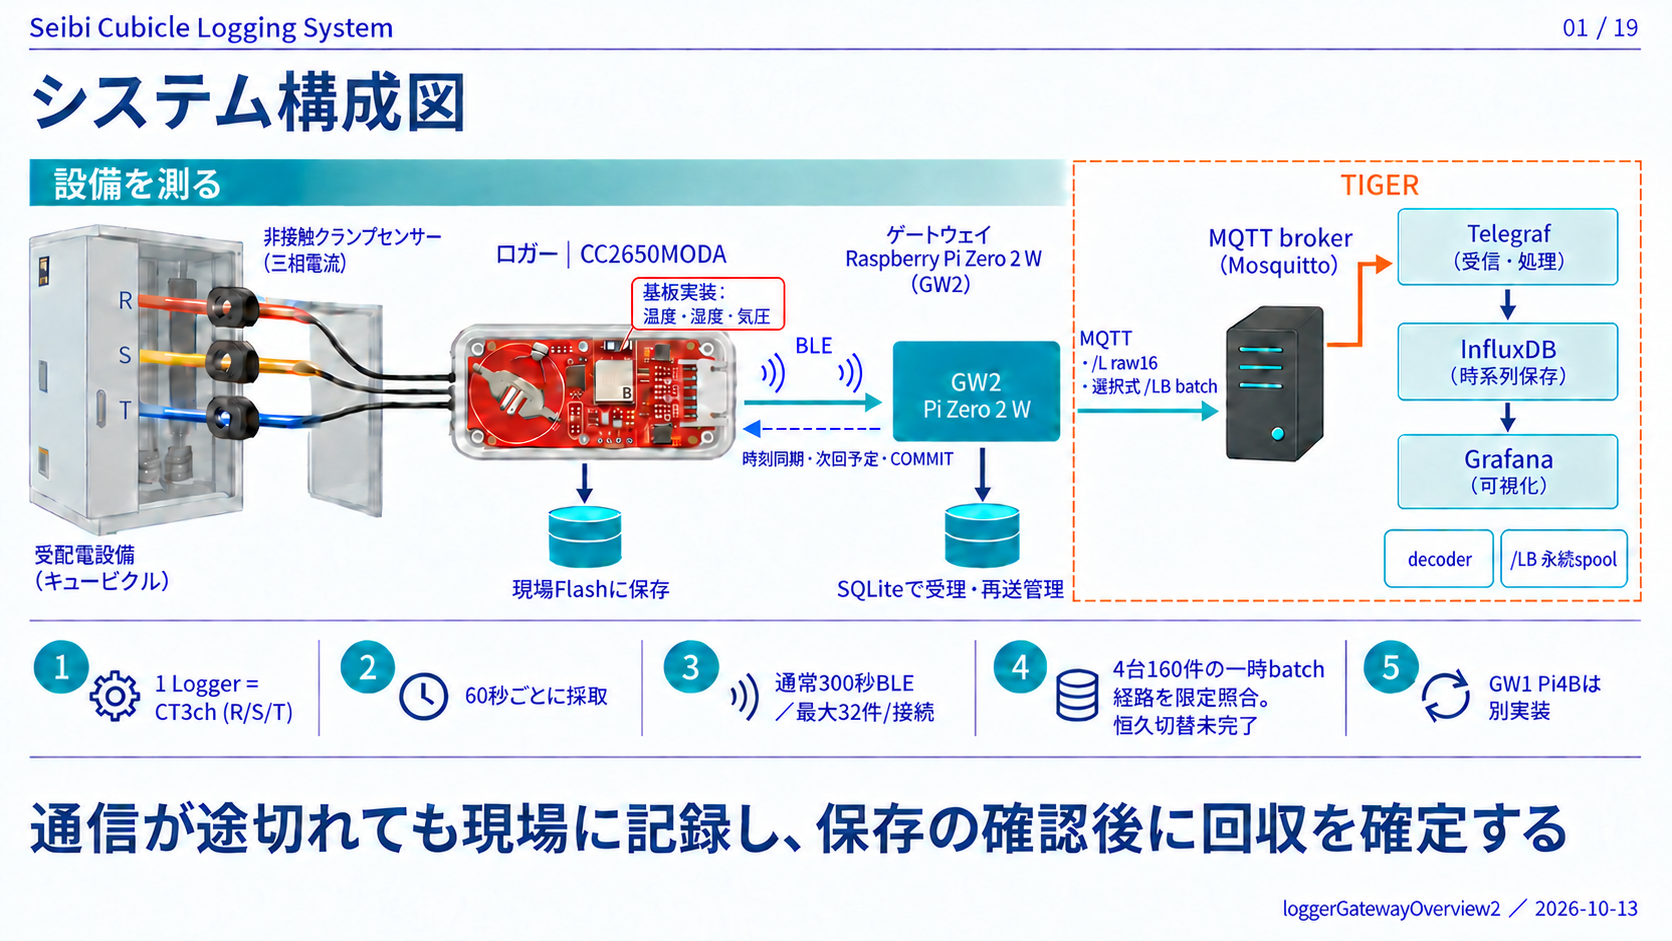
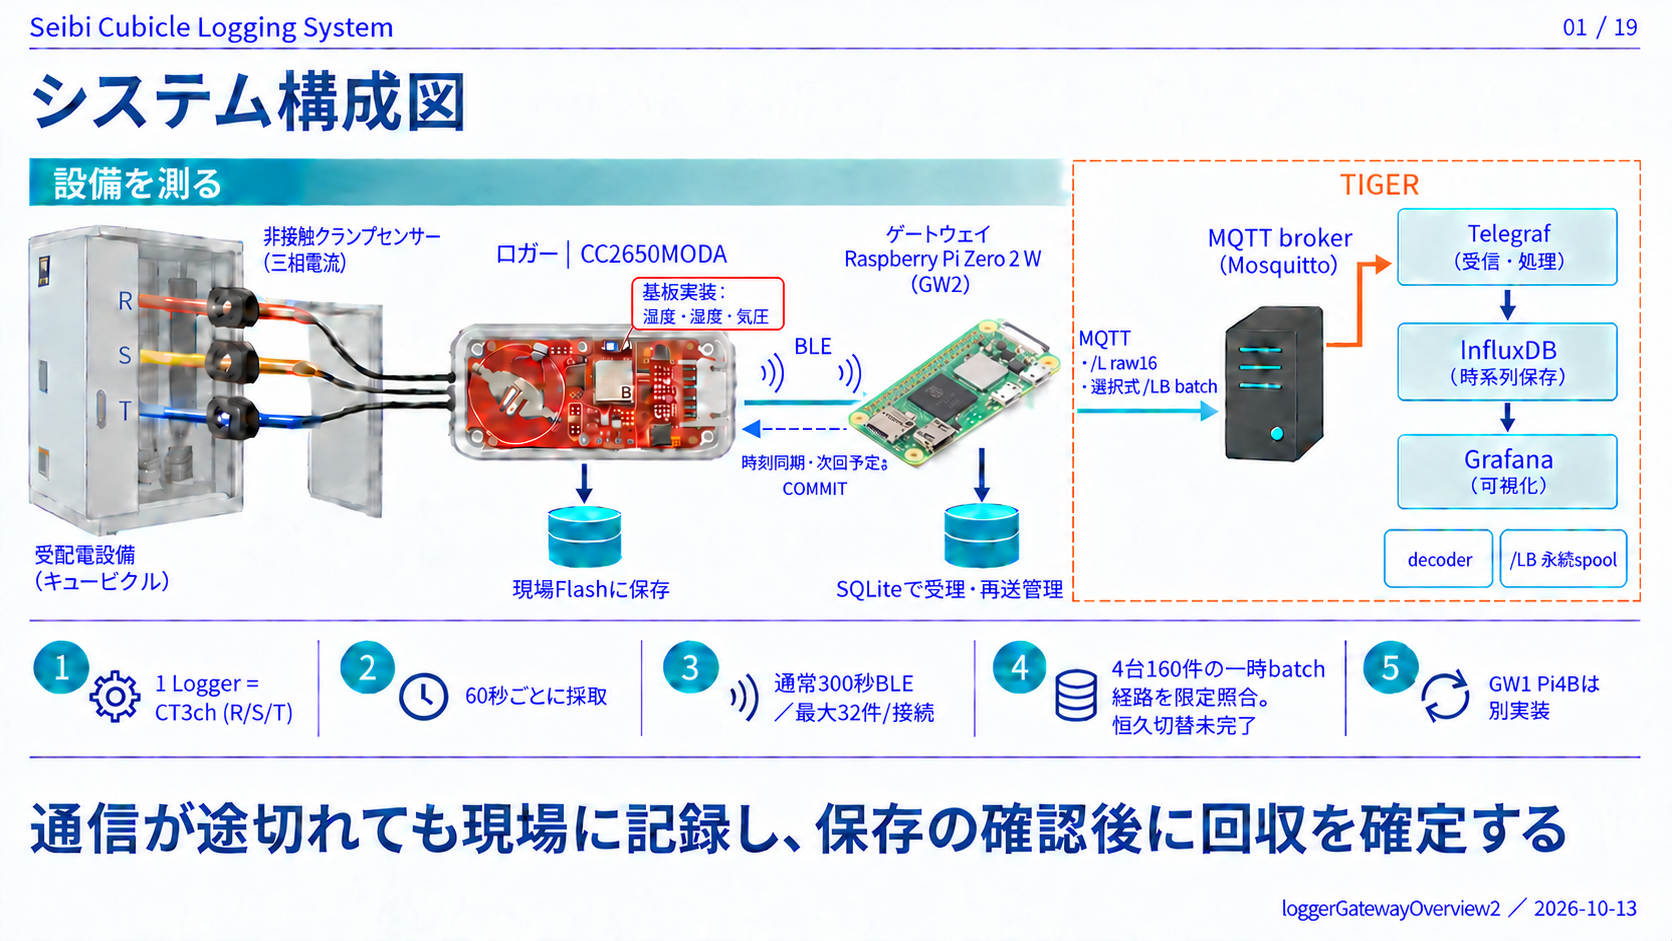
index.htmlのタイトルを更新し、スライド画像のURLにバージョン情報を追加しました。 画像ファイルも更新しました。

diff --git a/index.html b/index.html
@@ -1,23 +1,23 @@
 <!doctype html>
-<html lang="ja"><head><meta charset="utf-8"><meta name="viewport" content="width=device-width,initial-scale=1"><title>Seibi Cubicle Logging System</title><style>body{margin:0;background:#e8edf0;color:#143145;font:16px 'Yu Gothic',Meiryo,sans-serif}header{padding:18px 4vw;background:#fff;position:sticky;top:0;z-index:2}h1{font-size:23px;margin:0 0 8px}a{color:#00778a}nav{display:flex;gap:18px;flex-wrap:wrap}main{max-width:1400px;margin:auto;padding:20px}figure{margin:0 0 24px;background:#fff;box-shadow:0 2px 9px #0002}img{display:block;width:100%;height:auto}figcaption{padding:10px 16px}button{padding:8px 14px;border:1px solid #00778a;background:white;border-radius:4px;cursor:pointer}body.present header,body.present figcaption{display:none}body.present main{padding:0;max-width:none;height:100vh;background:#111;display:grid;place-items:center}body.present figure{display:none;margin:0;box-shadow:none;background:#111}body.present figure.active{display:block;width:100vw;height:100vh}body.present img{width:100%;height:100%;object-fit:contain}@media print{@page{size:landscape;margin:0}header,figcaption{display:none}main{margin:0;padding:0;max-width:none}figure{page-break-after:always;margin:0;box-shadow:none}img{width:100%;height:100vh;object-fit:contain}}</style></head><body><header><h1>Seibi Cubicle Logging System</h1><nav><button id="show">スライド表示（← →／Esc）</button><a href="presentation_content_plan.md">記述内容</a><a href="review_report.md">レビュー報告</a><a href="one_nce_budget.md">1NCE試算</a></nav></header><main>
-<figure id="slide-1"><a href="slide_images/01_system_architecture.png"><img src="slide_images/01_system_architecture.png" alt="1. システム構成図" loading="eager"></a><figcaption>01 / 19　システム構成図</figcaption></figure>
-<figure id="slide-2"><a href="slide_images/02_specifications.png"><img src="slide_images/02_specifications.png" alt="2. ロガー／ゲートウェイ諸元" loading="lazy"></a><figcaption>02 / 19　ロガー／ゲートウェイ諸元</figcaption></figure>
-<figure id="slide-3"><a href="slide_images/03_cycle_and_payload.png"><img src="slide_images/03_cycle_and_payload.png" alt="3. 計測周期と16Bレコード構造" loading="lazy"></a><figcaption>03 / 19　計測周期と16Bレコード構造</figcaption></figure>
-<figure id="slide-4"><a href="slide_images/04_commit_protocol.png"><img src="slide_images/04_commit_protocol.png" alt="4. 保存確認を伴うBLE回収" loading="lazy"></a><figcaption>04 / 19　保存確認を伴うBLE回収</figcaption></figure>
-<figure id="slide-5"><a href="slide_images/05_design_origins.png"><img src="slide_images/05_design_origins.png" alt="5. 停止条件に基づく保存設計" loading="lazy"></a><figcaption>05 / 19　停止条件に基づく保存設計</figcaption></figure>
-<figure id="slide-6"><a href="slide_images/06_flash_page_management.png"><img src="slide_images/06_flash_page_management.png" alt="6. 256Bページで記録と管理を集約" loading="lazy"></a><figcaption>06 / 19　256Bページで記録と管理を集約</figcaption></figure>
-<figure id="slide-7"><a href="slide_images/07_undo_journal.png"><img src="slide_images/07_undo_journal.png" alt="7. 循環undo journalの更新手順" loading="lazy"></a><figcaption>07 / 19　循環undo journalの更新手順</figcaption></figure>
-<figure id="slide-8"><a href="slide_images/08_recovery_decision.png"><img src="slide_images/08_recovery_decision.png" alt="8. 起動時の復旧判定" loading="lazy"></a><figcaption>08 / 19　起動時の復旧判定</figcaption></figure>
-<figure id="slide-9"><a href="slide_images/09_wear_and_maintenance.png"><img src="slide_images/09_wear_and_maintenance.png" alt="9. Flash更新予算と保守条件" loading="lazy"></a><figcaption>09 / 19　Flash更新予算と保守条件</figcaption></figure>
-<figure id="slide-10"><a href="slide_images/10_freshness_self_repair.png"><img src="slide_images/10_freshness_self_repair.png" alt="10. 最新優先回収と未送信の自己照合" loading="lazy"></a><figcaption>10 / 19　最新優先回収と未送信の自己照合</figcaption></figure>
-<figure id="slide-11"><a href="slide_images/11_quality_and_delivery.png"><img src="slide_images/11_quality_and_delivery.png" alt="11. 品質検証・永続キュー・再送処理" loading="lazy"></a><figcaption>11 / 19　品質検証・永続キュー・再送処理</figcaption></figure>
-<figure id="slide-12"><a href="slide_images/12_multi_logger_schedule.png"><img src="slide_images/12_multi_logger_schedule.png" alt="12. 複数ロガーの通信時刻を管理" loading="lazy"></a><figcaption>12 / 19　複数ロガーの通信時刻を管理</figcaption></figure>
-<figure id="slide-13"><a href="slide_images/13_host_tests.png"><img src="slide_images/13_host_tests.png" alt="13. 停止位置と入力条件を変えたPC検証" loading="lazy"></a><figcaption>13 / 19　停止位置と入力条件を変えたPC検証</figcaption></figure>
-<figure id="slide-14"><a href="slide_images/14_hardware_validation.png"><img src="slide_images/14_hardware_validation.png" alt="14. 4 Logger・160 recordのE2E照合" loading="lazy"></a><figcaption>14 / 19　4 Logger・160 recordのE2E照合</figcaption></figure>
-<figure id="slide-15"><a href="slide_images/15_performance_resources.png"><img src="slide_images/15_performance_resources.png" alt="15. 小型MCUの実行時間とメモリ余裕" loading="lazy"></a><figcaption>15 / 19　小型MCUの実行時間とメモリ余裕</figcaption></figure>
-<figure id="slide-16"><a href="slide_images/16_engineering_value.png"><img src="slide_images/16_engineering_value.png" alt="16. 設計上の利点と適用限界" loading="lazy"></a><figcaption>16 / 19　設計上の利点と適用限界</figcaption></figure>
-<figure id="slide-17"><a href="slide_images/17_mqtt_batch.png"><img src="slide_images/17_mqtt_batch.png" alt="17. 16Bを保ったMQTTまとめ送信" loading="lazy"></a><figcaption>17 / 19　16Bを保ったMQTTまとめ送信</figcaption></figure>
-<figure id="slide-18"><a href="slide_images/18_one_nce_budget.png"><img src="slide_images/18_one_nce_budget.png" alt="18. 1NCEの10年500MBと収容台数" loading="lazy"></a><figcaption>18 / 19　1NCEの10年500MBと収容台数</figcaption></figure>
-<figure id="slide-19"><a href="slide_images/19_one_nce_conditions.png"><img src="slide_images/19_one_nce_conditions.png" alt="19. 500MBへ収める通信条件" loading="lazy"></a><figcaption>19 / 19　500MBへ収める通信条件</figcaption></figure>
+<html lang="ja"><head><meta charset="utf-8"><meta name="viewport" content="width=device-width,initial-scale=1"><title>Inside Seibi Cubicle Logging System</title><style>body{margin:0;background:#e8edf0;color:#143145;font:16px 'Yu Gothic',Meiryo,sans-serif}header{padding:18px 4vw;background:#fff;position:sticky;top:0;z-index:2}h1{font-size:23px;margin:0 0 8px}a{color:#00778a}nav{display:flex;gap:18px;flex-wrap:wrap}main{max-width:1400px;margin:auto;padding:20px}figure{margin:0 0 24px;background:#fff;box-shadow:0 2px 9px #0002}img{display:block;width:100%;height:auto}figcaption{padding:10px 16px}button{padding:8px 14px;border:1px solid #00778a;background:white;border-radius:4px;cursor:pointer}body.present header,body.present figcaption{display:none}body.present main{padding:0;max-width:none;height:100vh;background:#111;display:grid;place-items:center}body.present figure{display:none;margin:0;box-shadow:none;background:#111}body.present figure.active{display:block;width:100vw;height:100vh}body.present img{width:100%;height:100%;object-fit:contain}@media print{@page{size:landscape;margin:0}header,figcaption{display:none}main{margin:0;padding:0;max-width:none}figure{page-break-after:always;margin:0;box-shadow:none}img{width:100%;height:100vh;object-fit:contain}}</style></head><body><header><h1>Inside Seibi Cubicle Logging System</h1><nav><button id="show">スライド表示（← →／Esc）</button><a href="presentation_content_plan.md">記述内容</a><a href="review_report.md">レビュー報告</a><a href="one_nce_budget.md">1NCE試算</a></nav></header><main>
+<figure id="slide-1"><a href="slide_images/01_system_architecture.png"><img src="slide_images/01_system_architecture.png?v=zero2w-20261013" alt="1. システム構成図" loading="eager"></a><figcaption>01 / 19　システム構成図</figcaption></figure>
+<figure id="slide-2"><a href="slide_images/02_specifications.png"><img src="slide_images/02_specifications.png?v=zero2w-20261013" alt="2. ロガー／ゲートウェイ諸元" loading="lazy"></a><figcaption>02 / 19　ロガー／ゲートウェイ諸元</figcaption></figure>
+<figure id="slide-3"><a href="slide_images/03_cycle_and_payload.png"><img src="slide_images/03_cycle_and_payload.png?v=zero2w-20261013" alt="3. 計測周期と16Bレコード構造" loading="lazy"></a><figcaption>03 / 19　計測周期と16Bレコード構造</figcaption></figure>
+<figure id="slide-4"><a href="slide_images/04_commit_protocol.png"><img src="slide_images/04_commit_protocol.png?v=zero2w-20261013" alt="4. 保存確認を伴うBLE回収" loading="lazy"></a><figcaption>04 / 19　保存確認を伴うBLE回収</figcaption></figure>
+<figure id="slide-5"><a href="slide_images/05_design_origins.png"><img src="slide_images/05_design_origins.png?v=zero2w-20261013" alt="5. 停止条件に基づく保存設計" loading="lazy"></a><figcaption>05 / 19　停止条件に基づく保存設計</figcaption></figure>
+<figure id="slide-6"><a href="slide_images/06_flash_page_management.png"><img src="slide_images/06_flash_page_management.png?v=zero2w-20261013" alt="6. 256Bページで記録と管理を集約" loading="lazy"></a><figcaption>06 / 19　256Bページで記録と管理を集約</figcaption></figure>
+<figure id="slide-7"><a href="slide_images/07_undo_journal.png"><img src="slide_images/07_undo_journal.png?v=zero2w-20261013" alt="7. 循環undo journalの更新手順" loading="lazy"></a><figcaption>07 / 19　循環undo journalの更新手順</figcaption></figure>
+<figure id="slide-8"><a href="slide_images/08_recovery_decision.png"><img src="slide_images/08_recovery_decision.png?v=zero2w-20261013" alt="8. 起動時の復旧判定" loading="lazy"></a><figcaption>08 / 19　起動時の復旧判定</figcaption></figure>
+<figure id="slide-9"><a href="slide_images/09_wear_and_maintenance.png"><img src="slide_images/09_wear_and_maintenance.png?v=zero2w-20261013" alt="9. Flash更新予算と保守条件" loading="lazy"></a><figcaption>09 / 19　Flash更新予算と保守条件</figcaption></figure>
+<figure id="slide-10"><a href="slide_images/10_freshness_self_repair.png"><img src="slide_images/10_freshness_self_repair.png?v=zero2w-20261013" alt="10. 最新優先回収と未送信の自己照合" loading="lazy"></a><figcaption>10 / 19　最新優先回収と未送信の自己照合</figcaption></figure>
+<figure id="slide-11"><a href="slide_images/11_quality_and_delivery.png"><img src="slide_images/11_quality_and_delivery.png?v=zero2w-20261013" alt="11. 品質検証・永続キュー・再送処理" loading="lazy"></a><figcaption>11 / 19　品質検証・永続キュー・再送処理</figcaption></figure>
+<figure id="slide-12"><a href="slide_images/12_multi_logger_schedule.png"><img src="slide_images/12_multi_logger_schedule.png?v=zero2w-20261013" alt="12. 複数ロガーの通信時刻を管理" loading="lazy"></a><figcaption>12 / 19　複数ロガーの通信時刻を管理</figcaption></figure>
+<figure id="slide-13"><a href="slide_images/13_host_tests.png"><img src="slide_images/13_host_tests.png?v=zero2w-20261013" alt="13. 停止位置と入力条件を変えたPC検証" loading="lazy"></a><figcaption>13 / 19　停止位置と入力条件を変えたPC検証</figcaption></figure>
+<figure id="slide-14"><a href="slide_images/14_hardware_validation.png"><img src="slide_images/14_hardware_validation.png?v=zero2w-20261013" alt="14. 4 Logger・160 recordのE2E照合" loading="lazy"></a><figcaption>14 / 19　4 Logger・160 recordのE2E照合</figcaption></figure>
+<figure id="slide-15"><a href="slide_images/15_performance_resources.png"><img src="slide_images/15_performance_resources.png?v=zero2w-20261013" alt="15. 小型MCUの実行時間とメモリ余裕" loading="lazy"></a><figcaption>15 / 19　小型MCUの実行時間とメモリ余裕</figcaption></figure>
+<figure id="slide-16"><a href="slide_images/16_engineering_value.png"><img src="slide_images/16_engineering_value.png?v=zero2w-20261013" alt="16. 設計上の利点と適用限界" loading="lazy"></a><figcaption>16 / 19　設計上の利点と適用限界</figcaption></figure>
+<figure id="slide-17"><a href="slide_images/17_mqtt_batch.png"><img src="slide_images/17_mqtt_batch.png?v=zero2w-20261013" alt="17. 16Bを保ったMQTTまとめ送信" loading="lazy"></a><figcaption>17 / 19　16Bを保ったMQTTまとめ送信</figcaption></figure>
+<figure id="slide-18"><a href="slide_images/18_one_nce_budget.png"><img src="slide_images/18_one_nce_budget.png?v=zero2w-20261013" alt="18. 1NCEの10年500MBと収容台数" loading="lazy"></a><figcaption>18 / 19　1NCEの10年500MBと収容台数</figcaption></figure>
+<figure id="slide-19"><a href="slide_images/19_one_nce_conditions.png"><img src="slide_images/19_one_nce_conditions.png?v=zero2w-20261013" alt="19. 500MBへ収める通信条件" loading="lazy"></a><figcaption>19 / 19　500MBへ収める通信条件</figcaption></figure>
 </main><script>const f=[...document.querySelectorAll('figure')];let i=0;function activate(){f.forEach((x,n)=>x.classList.toggle('active',n===i));}document.querySelector('#show').onclick=()=>{document.body.classList.add('present');activate();};document.addEventListener('keydown',e=>{if(!document.body.classList.contains('present'))return;if(e.key==='Escape'){document.body.classList.remove('present');return;}if(e.key==='ArrowRight'||e.key===' '){i=Math.min(f.length-1,i+1);e.preventDefault();}if(e.key==='ArrowLeft'){i=Math.max(0,i-1);e.preventDefault();}activate();});document.querySelectorAll('figure a').forEach(a=>a.addEventListener('click',e=>{if(document.body.classList.contains('present')){e.preventDefault();i=Math.min(f.length-1,i+1);activate();}}));</script></body></html>
 
